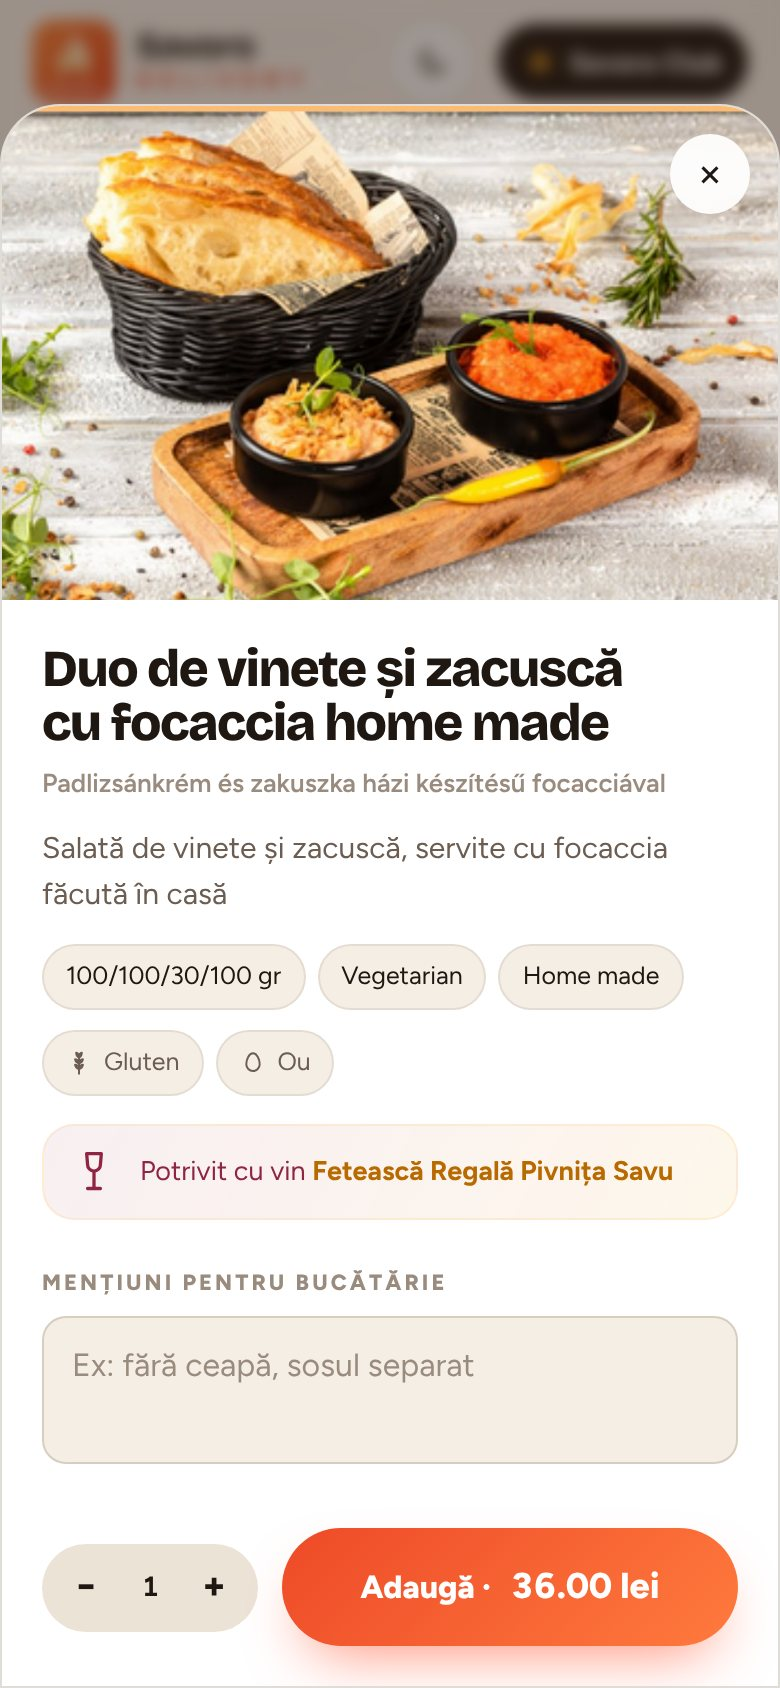
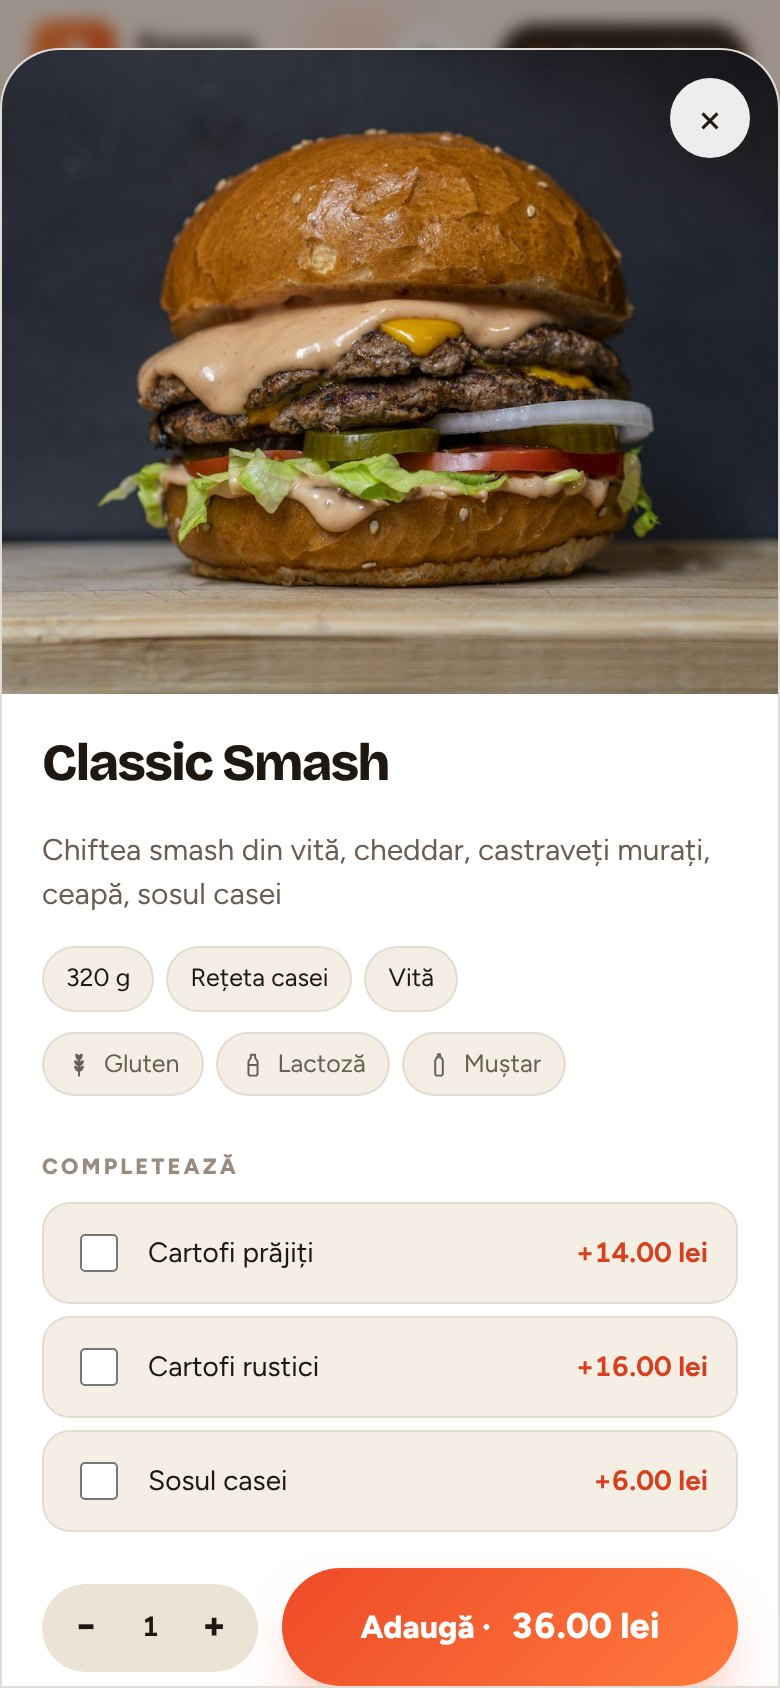
Showcase: fictional Savoro menu with Unsplash photos (no real restaurant menu or photos), menu picks moved to menuConfig, domain bluradvertising.ro, regenerated screenshots
Claude-Session: https://claude.ai/code/session_01FWxn1RFNGZn4S8d5iYEuTb

diff --git a/app/src/pages/Menu.tsx b/app/src/pages/Menu.tsx
@@ -8,43 +8,18 @@ import { flyToCart, haptic } from "../lib/fx";
 import Icon from "../components/Icon";
 import BottomNav from "../components/BottomNav";
 import SiteFooter from "../components/SiteFooter";
+import { BURGER_CATS, CAT_IMG, EXTRA_IDS, MAIN_CATS, MOODS, SEARCH_PH, UPSELL, moodFor } from "../lib/menuConfig";
 
 type Lang = "ro" | "hu";
 type ItemSheet = { id: string; qty: number; vi: number; extras: string[]; note: string };
 type CodeInfo = { code: string; percent: number; category_id: string | null; label: string };
 type Form = { name: string; phone: string; email: string; address: string };
 
-const EXTRA_IDS = {
-  burger: ["cartofi", "special-fries", "sosul-casei"],
-  main: ["mujdei", "sos-usturoi", "smantana", "ardei-iute"],
-  desert: ["smantana"],
-};
-const MAIN_CATS = ["nou", "specialitati", "porc", "ardeal", "pui", "peste", "post", "dejun", "platouri", "vegetariene"];
-const UPSELL = ["sosul-casei", "mujdei", "muraturi", "papanas", "lapte-pasare", "ardei-iute", "cartofi"];
-const CAT_IMG: Record<string, string> = {
-  antreuri: "platou-branzeturi.jpg", dejun: "english.jpg", nou: "antricot.jpg", platouri: "platou-lyra.jpg",
-  specialitati: "costite.jpg", smash: "double-smash.jpg", burger: "eleven-burger.jpg", supe: "ciorba-vita.jpg",
-  porc: "ciolan-lyra.jpg", ardeal: "papricas.jpg", pui: "cordon-bleu.jpg", peste: "pastrav.jpg", paste: "carbonara.jpg",
-  salate: "halloumi.jpg", vegetariene: "papricas-ciuperci.jpg", post: "ciorba-pita.jpg", kids: "kids-dino.jpg",
-  garnituri: "cartofi-coaja.jpg", muraturi: "muraturi.jpg", sosuri: "special-fries.jpg", desert: "papanas.jpg",
-};
-// "Ce poftă ai?" — quick moods, each a hand-picked set of dishes
-const MOODS = [
-  { id: "casa", ro: "De-al casei", hu: "Házias", ids: ["ciolan-lyra", "costite", "sarmale", "carne-garnita", "fasole-batuta", "papricas"] },
-  { id: "burger", ro: "Burger night", hu: "Burger este", ids: ["double-smash", "spicy-smash", "eleven-burger", "burger-ozn", "special-fries", "smash"] },
-  { id: "usor", ro: "Ușor & verde", hu: "Könnyű", ids: ["halloumi", "salata-pui", "pastrav", "oua-posate", "supa-crema", "papricas-ciuperci"] },
-  { id: "premium", ro: "Seară specială", hu: "Különleges este", ids: ["antricot", "muschi", "tocanita", "platou-branzeturi", "camembert"] },
-  { id: "dulce", ro: "Ceva dulce", hu: "Valami édes", ids: ["papanas", "somloi", "lapte-pasare", "panna-cotta", "clatite", "tarta-mere"] },
-  { id: "dimineata", ro: "Mic dejun", hu: "Reggeli", ids: ["english", "bruschete", "omleta", "paine-ou", "spanac"] },
-  { id: "grup", ro: "Pentru gașcă", hu: "Társaságnak", ids: ["platou-lyra", "platou-pui", "mix-grill", "gustare", "platou-branzeturi"] },
-];
-const moodFor = (h: number) => (h < 11 ? "dimineata" : h < 16 ? "casa" : h < 22 ? "burger" : "dulce");
-
 const T = {
-  ro: { deliv: "Livrare", pick: "Ridicare", search: "Caută ciolan, burger, papanaș…", add: "Adaugă", from: "de la", out: "Epuizat azi",
+  ro: { deliv: "Livrare", pick: "Ridicare", search: SEARCH_PH.ro, add: "Adaugă", from: "de la", out: "Epuizat azi",
         cart: "Coșul tău", hot: "Tigaie fierbinte", portion: "Alege porția", extras: "Completează", note: "Mențiuni pentru bucătărie",
         notePh: "Ex: fără ceapă, sosul separat", wine: "Potrivit cu vin", mood: "Ce poftă ai?", all: "produse", menu: "Tot meniul" },
-  hu: { deliv: "Kiszállítás", pick: "Elvitel", search: "Keresés…", add: "Kosárba", from: "ártól", out: "Ma elfogyott",
+  hu: { deliv: "Kiszállítás", pick: "Elvitel", search: SEARCH_PH.hu, add: "Kosárba", from: "ártól", out: "Ma elfogyott",
         cart: "Kosarad", hot: "Forró serpenyő", portion: "Válassz adagot", extras: "Egészítsd ki", note: "Megjegyzés a konyhának",
         notePh: "Pl. hagyma nélkül, szósz külön", wine: "Ajánlott bor", mood: "Mire van kedved?", all: "termék", menu: "Teljes étlap" },
 };
@@ -232,7 +207,7 @@ export default function Menu({ source }: { source?: string }) {
     haptic(6);
   }
   const extrasFor = (it: Item) =>
-    (["smash", "burger"].includes(it.category_id) && it.id !== "special-fries" ? EXTRA_IDS.burger
+    (BURGER_CATS.includes(it.category_id) && !EXTRA_IDS.burger.includes(it.id) ? EXTRA_IDS.burger
       : MAIN_CATS.includes(it.category_id) ? EXTRA_IDS.main
       : it.category_id === "desert" ? EXTRA_IDS.desert : []).map(id => byId[id]).filter(Boolean);
 

diff --git a/app/vite.config.ts b/app/vite.config.ts
@@ -4,30 +4,28 @@ import { readFileSync, readdirSync } from "node:fs";
 import { fileURLToPath } from "node:url";
 
 // `vite build --mode demo` makes the static showcase: no backend (an in-browser stand-in for Supabase),
-// a fictional brand instead of the restaurant's, relative paths so it runs from any folder of any host.
+// a fictional restaurant (own menu, stock photos) instead of the real one, relative paths so it runs from any folder of any host.
 const here = (p: string) => fileURLToPath(new URL(p, import.meta.url));
-const SWAP: Record<string, string> = { "/src/lib/supabase.ts": "./src/demo/mockSupabase.ts", "/src/lib/company.ts": "./src/demo/company.ts" };
+const SWAP: Record<string, string> = {
+  "/src/lib/supabase.ts": "./src/demo/mockSupabase.ts",
+  "/src/lib/company.ts": "./src/demo/company.ts",
+  "/src/lib/menuConfig.ts": "./src/demo/menuConfig.ts",
+};
 const BRAND: [string | RegExp, string][] = [
   ['"/img/', '"./img/'],
   ["logo-lyra.jpg", "logo-demo.svg"],
-  [/"(double-smash|spicy-smash|smash)\.jpg"/g, '"demo-$1.jpg"'],   // the originals carry the restaurant's logo
-  ['"pitbox.jpg"', '"costite.jpg"'],
-  [/"([a-z-]+)-lyra\.jpg"/g, '"$1-casa.jpg"'],
-  ["BBQ Pit Box Smoker", "Din afumătoarea casei"],
-  ["Pit Box Smoker", "afumătoare"],
   ["by Lyra Pensiune Restaurant · Tradiții din 1999", "by Savoro Kitchen · demo"],
   ["lyrasdelivery.ro", "savoro.ro"],
   ["lyrago.netlify.app", "savoro.ro"],
   [/Lyra's/g, "Savoro"],
   [/Lyra/g, "Savoro"],
   [/LYRA/g, "SAVORO"],
-  [/(Acățari|Gornești|Corunca|Târgu Mureș)/g, "Cluj-Napoca"],
 ];
 const demo = (): Plugin => ({
   name: "lyra-demo",
   enforce: "pre",
   async resolveId(source, importer, opts) {
-    if (!importer?.includes("/src/") || !/\/(supabase|company)$/.test(source)) return null;
+    if (!importer?.includes("/src/") || !/\/(supabase|company|menuConfig)$/.test(source)) return null;
     const r = await this.resolve(source, importer, { ...opts, skipSelf: true });
     const hit = r && Object.keys(SWAP).find(k => r.id.endsWith(k));
     return hit ? here(SWAP[hit]) : null;
@@ -37,14 +35,15 @@ const demo = (): Plugin => ({
     for (const [a, b] of BRAND) code = typeof a === "string" ? code.replaceAll(a, b) : code.replace(a, b);
     return code;
   },
+  transformIndexHtml(html) {
+    return html.replace("/img/logo-lyra.jpg", "./img/logo-demo.svg").replace(/Lyra's Delivery/g, "Savoro Delivery").replace(/Lyra/g, "Savoro").replace("specialități la tigaie fierbinte, burgeri pe cărbune", "burgeri, pizza, sushi și brunch");
+  },
   generateBundle() {
     for (const f of readdirSync(here("./src/demo/img")))
       this.emitFile({ type: "asset", fileName: "img/" + f, source: readFileSync(here("./src/demo/img/" + f)) });
-    for (const f of readdirSync(here("./public/img")).filter(f => f.endsWith("-lyra.jpg")))
-      this.emitFile({ type: "asset", fileName: "img/" + f.replace("-lyra.jpg", "-casa.jpg"), source: readFileSync(here("./public/img/" + f)) });
   },
 });
 
 export default defineConfig(({ mode }) => mode === "demo"
-  ? { plugins: [demo(), react()], base: "./", build: { outDir: "dist-demo" } }
+  ? { plugins: [demo(), react()], base: "./", publicDir: false, build: { outDir: "dist-demo" } }
   : { plugins: [react()] });

diff --git a/app/src/lib/menuConfig.ts b/app/src/lib/menuConfig.ts
@@ -1,0 +1,30 @@
+// Menu-specific picks for the client page (extras, upsell, story images, "Ce poftă ai?" moods).
+// The showcase build swaps this file for src/demo/menuConfig.ts, which matches the demo menu.
+export const EXTRA_IDS = {
+  burger: ["cartofi", "special-fries", "sosul-casei"],
+  main: ["mujdei", "sos-usturoi", "smantana", "ardei-iute"],
+  desert: ["smantana"],
+};
+export const MAIN_CATS = ["nou", "specialitati", "porc", "ardeal", "pui", "peste", "post", "dejun", "platouri", "vegetariene"];
+export const UPSELL = ["sosul-casei", "mujdei", "muraturi", "papanas", "lapte-pasare", "ardei-iute", "cartofi"];
+export const CAT_IMG: Record<string, string> = {
+  antreuri: "platou-branzeturi.jpg", dejun: "english.jpg", nou: "antricot.jpg", platouri: "platou-lyra.jpg",
+  specialitati: "costite.jpg", smash: "double-smash.jpg", burger: "eleven-burger.jpg", supe: "ciorba-vita.jpg",
+  porc: "ciolan-lyra.jpg", ardeal: "papricas.jpg", pui: "cordon-bleu.jpg", peste: "pastrav.jpg", paste: "carbonara.jpg",
+  salate: "halloumi.jpg", vegetariene: "papricas-ciuperci.jpg", post: "ciorba-pita.jpg", kids: "kids-dino.jpg",
+  garnituri: "cartofi-coaja.jpg", muraturi: "muraturi.jpg", sosuri: "special-fries.jpg", desert: "papanas.jpg",
+};
+// "Ce poftă ai?" — quick moods, each a hand-picked set of dishes
+export const MOODS = [
+  { id: "casa", ro: "De-al casei", hu: "Házias", ids: ["ciolan-lyra", "costite", "sarmale", "carne-garnita", "fasole-batuta", "papricas"] },
+  { id: "burger", ro: "Burger night", hu: "Burger este", ids: ["double-smash", "spicy-smash", "eleven-burger", "burger-ozn", "special-fries", "smash"] },
+  { id: "usor", ro: "Ușor & verde", hu: "Könnyű", ids: ["halloumi", "salata-pui", "pastrav", "oua-posate", "supa-crema", "papricas-ciuperci"] },
+  { id: "premium", ro: "Seară specială", hu: "Különleges este", ids: ["antricot", "muschi", "tocanita", "platou-branzeturi", "camembert"] },
+  { id: "dulce", ro: "Ceva dulce", hu: "Valami édes", ids: ["papanas", "somloi", "lapte-pasare", "panna-cotta", "clatite", "tarta-mere"] },
+  { id: "dimineata", ro: "Mic dejun", hu: "Reggeli", ids: ["english", "bruschete", "omleta", "paine-ou", "spanac"] },
+  { id: "grup", ro: "Pentru gașcă", hu: "Társaságnak", ids: ["platou-lyra", "platou-pui", "mix-grill", "gustare", "platou-branzeturi"] },
+];
+export const moodFor = (h: number) => (h < 11 ? "dimineata" : h < 16 ? "casa" : h < 22 ? "burger" : "dulce");
+
+export const BURGER_CATS = ["smash", "burger"];
+export const SEARCH_PH = { ro: "Caută ciolan, burger, papanaș…", hu: "Keresés…" };

diff --git a/showcase/index.html b/showcase/index.html
@@ -180,7 +180,7 @@ footer .wrap{display:flex;justify-content:space-between;gap:16px;flex-wrap:wrap}
   <div class="wrap">
     <a class="logo" href="#"><img src="app/img/logo-demo.svg" alt="">Savoro <span>Delivery</span></a>
     <nav><a href="#demo">Demo</a><a href="#client">Pentru clienți</a><a href="#restaurant">Pentru restaurant</a><a href="#de-ce">De ce</a></nav>
-    <a class="btn btn-dark" href="https://vluradvertising.ro/#contact">Vreau și eu</a>
+    <a class="btn btn-dark" href="https://bluradvertising.ro/#contact">Vreau și eu</a>
   </div>
 </header>
 
@@ -197,7 +197,7 @@ footer .wrap{display:flex;justify-content:space-between;gap:16px;flex-wrap:wrap}
       </div>
       <div class="proof">
         <div><b>0%</b><small>comision pe comandă</small></div>
-        <div><b>115</b><small>preparate, editabile din admin</small></div>
+        <div><b>2</b><small>atingeri până la comandă</small></div>
         <div><b>4</b><small>aplicații într-una</small></div>
       </div>
     </div>
@@ -292,13 +292,13 @@ footer .wrap{display:flex;justify-content:space-between;gap:16px;flex-wrap:wrap}
     <div class="box reveal">
       <h2>Vrei o aplicație ca asta pentru restaurantul tău?</h2>
       <p>O construim cu meniul, pozele, numele și logo-ul tău, pe domeniul tău. Tu primești comenzile, noi ne ocupăm de restul.</p>
-      <div class="ctas"><a class="btn btn-main" href="https://vluradvertising.ro/#contact">Cere o ofertă</a><a class="btn btn-ghost" href="app/" target="_blank" rel="noopener">Încearcă demo-ul ↗</a></div>
+      <div class="ctas"><a class="btn btn-main" href="https://bluradvertising.ro/#contact">Cere o ofertă</a><a class="btn btn-ghost" href="app/" target="_blank" rel="noopener">Încearcă demo-ul ↗</a></div>
     </div>
   </div>
 </section>
 </main>
 
-<footer><div class="wrap"><span>Aplicație de comenzi online realizată de <a href="https://vluradvertising.ro">VLUR Advertising</a></span><span>Savoro este un restaurant fictiv, creat pentru demo. Comenzile din demo nu sunt reale.</span></div></footer>
+<footer><div class="wrap"><span>Aplicație de comenzi online realizată de <a href="https://bluradvertising.ro">Blur Advertising</a></span><span>Savoro este un restaurant fictiv, creat pentru demo. Fotografii: Unsplash. Comenzile din demo nu sunt reale.</span></div></footer>
 
 <script>
   const io = new IntersectionObserver(es => es.forEach(e => { if (e.isIntersecting) { e.target.classList.add("in"); io.unobserve(e.target); } }), { threshold: .12 });

diff --git a/video/promo.html b/video/promo.html
@@ -130,7 +130,7 @@ body{font-family:Figtree,sans-serif;color:var(--ink);position:relative}
   <svg class="pin" id="pinA" style="left:120px;top:1700px" viewBox="0 0 24 24"><path d="M12 22s7-6.5 7-12a7 7 0 1 0-14 0c0 5.5 7 12 7 12z" fill="#f04e23"/><circle cx="12" cy="10" r="3" fill="#fff"/></svg>
   <svg class="pin" id="pinB" style="left:960px;top:420px" viewBox="0 0 24 24"><path d="M12 22s7-6.5 7-12a7 7 0 1 0-14 0c0 5.5 7 12 7 12z" fill="#17b67c"/><circle cx="12" cy="10" r="3" fill="#fff"/></svg>
   <div class="phone" id="phone2" style="left:240px;top:600px"><div class="screen"><img src="assets/staff-courier.jpg" style="opacity:1" alt=""><div class="tap" id="tap3"></div></div></div>
-  <div class="card" id="n3" style="right:50px;top:1560px"><i style="background:#e7f7f0">🏠</i><div><b>Livrată!</b><small>De încasat: 85 lei · card</small></div></div>
+  <div class="card" id="n3" style="right:50px;top:1560px"><i style="background:#e7f7f0">🏠</i><div><b>Livrată!</b><small>De încasat: 102 lei · card</small></div></div>
 </div>
 
 <!-- 7 · club -->
@@ -148,7 +148,7 @@ body{font-family:Figtree,sans-serif;color:var(--ink);position:relative}
   <div class="zero" id="zero"><span>0%</span><small>comision.</small></div>
   <div class="own" id="own">Clienții sunt ai tăi.</div>
   <div class="cta" id="cta">Încearcă demo-ul live</div>
-  <div class="url" id="url">vluradvertising.ro</div>
+  <div class="url" id="url">bluradvertising.ro</div>
   <img class="mini" id="m1" src="assets/client-popup.jpg" style="left:80px" alt="">
   <img class="mini" id="m2" src="assets/client-track.jpg" style="left:415px" alt="">
   <img class="mini" id="m3" src="assets/client-club.jpg" style="left:750px" alt="">
@@ -226,7 +226,7 @@ $("sc-track").style.opacity = 0;
 A("sc-track", [{ opacity: 0 }, { opacity: 1 }], 11.6, .25);
 const tap = (id, x, y, at) => { $(id).style.left = x + "px"; $(id).style.top = y + "px";
   A(id, [{ opacity: 0, transform: "scale(.4)" }, { opacity: 1, transform: "scale(1)", offset: .4 }, { opacity: 0, transform: "scale(1.5)" }], at, .55); };
-tap("tap1", 367, 1146, 10.2);   // "Adaugă în coș"
+tap("tap1", 310, 1175, 10.2);   // "Adaugă în coș"
 tap("tap2", 282, 1153, 11.25);  // "Trimite comanda"
 cap("Clienții comandă din *două* atingeri.|Poze mari, coș rapid, plată la livrare.", 7.1, 11.5);
 cap("Și urmăresc comanda *live*, până la ușă.", 11.6, 15.1);

diff --git a/app/src/demo/mockSupabase.ts b/app/src/demo/mockSupabase.ts
@@ -36,17 +36,17 @@ function seedOrders(): Row[] {
   };
   return [
     mk(1036, { name: "Andreea M.", phone: "0745 112 908", address: "Str. Trandafirilor 12", status: "new", created_at: iso(now - 0.6 * m), source: "ig",
-      items: [line("double-smash", 2), line("cartofi", 2)], note: "Fără ceapă la un burger, vă rog", allergies: ["lactoza"] }),
+      items: [line("double-cheese", 2), line("cartofi", 2)], note: "Fără ceapă la un burger, vă rog", allergies: ["lactoza"] }),
     mk(1035, { name: "Bogdan P.", phone: "0722 455 019", address: "Str. Principală 88", status: "prep", eta_min: 35, accepted_at: iso(now - 9 * m), created_at: iso(now - 10 * m),
-      items: [line("spicy-smash"), line("smash"), line("cartofi")] }),
+      items: [line("diavola"), line("classic-smash"), line("cartofi")] }),
     mk(1034, { name: "Ioana R.", phone: "0758 302 771", mode: "ridicare", address: "Ridicare din restaurant", status: "prep", eta_min: 20, accepted_at: iso(now - 14 * m), created_at: iso(now - 15 * m), payment: "cash",
-      items: [line("papanas", 2)] }),
+      items: [line("poke-somon"), line("tiramisu")] }),
     mk(1033, { name: "Csaba K.", phone: "0740 980 114", address: "Str. Morii 4", status: "road", eta_min: 40, accepted_at: iso(now - 31 * m), road_at: iso(now - 6 * m), created_at: iso(now - 32 * m),
-      courier_id: STAFF_USER, courier_name: "Vlad", items: [line("double-smash"), line("duo-vinete")] }),
+      courier_id: STAFF_USER, courier_name: "Vlad", items: [line("sushi-boat")] }),
     mk(1032, { name: "Maria S.", phone: "0733 640 210", address: "Str. Libertății 21", status: "done", eta_min: 40, accepted_at: iso(now - 80 * m), road_at: iso(now - 55 * m), done_at: iso(now - 41 * m), created_at: iso(now - 81 * m),
-      courier_id: STAFF_USER, courier_name: "Vlad", rating: 5, items: [line("smash", 3), line("cartofi", 3)] }),
+      courier_id: STAFF_USER, courier_name: "Vlad", rating: 5, items: [line("margherita", 2), line("aripioare")] }),
     mk(1031, { name: "Radu T.", phone: "0766 010 332", mode: "ridicare", address: "Ridicare din restaurant", status: "done", eta_min: 25, accepted_at: iso(now - 130 * m), done_at: iso(now - 100 * m), created_at: iso(now - 131 * m),
-      rating: 4, items: [line("spicy-smash", 2)] }),
+      rating: 4, items: [line("bbq-bacon", 2)] }),
   ];
 }
 

diff --git a/app/src/demo/menuConfig.ts b/app/src/demo/menuConfig.ts
@@ -1,0 +1,21 @@
+// Showcase build: menu picks matching the fictional Savoro menu (see src/demo/seed).
+export const EXTRA_IDS = {
+  burger: ["cartofi", "cartofi-rustici", "sosul-casei"],
+  main: ["cartofi", "sos-usturoi", "sosul-casei"],
+  desert: [] as string[],
+};
+export const MAIN_CATS = ["grill"];
+export const BURGER_CATS = ["burgers"];
+export const UPSELL = ["cartofi", "sosul-casei", "tiramisu", "fresh-portocale", "cartofi-rustici", "gogosi"];
+export const CAT_IMG: Record<string, string> = { extra: "m-cartofi.jpg" };
+export const MOODS = [
+  { id: "burger", ro: "Burger night", hu: "Burger este", ids: ["double-cheese", "classic-smash", "bbq-bacon", "avocado-burger", "sliders"] },
+  { id: "pizza", ro: "Pizza & paste", hu: "Pizza", ids: ["margherita", "diavola", "bianca", "quattro", "spaghete-creveti", "penne-arrabbiata"] },
+  { id: "usor", ro: "Ușor & verde", hu: "Könnyű", ids: ["poke-somon", "buddha", "green-salad", "farfalle-pesto", "egg-bowl"] },
+  { id: "premium", ro: "Seară specială", hu: "Különleges este", ids: ["ribeye", "steak-frites", "sushi-boat", "nigiri-set", "spaghete-creveti"] },
+  { id: "dulce", ro: "Ceva dulce", hu: "Valami édes", ids: ["tiramisu", "tort-zmeura", "gogosi", "sundae", "pancakes"] },
+  { id: "dimineata", ro: "Brunch", hu: "Brunch", ids: ["avocado-toast", "french-toast", "pancakes", "egg-bowl", "club-sandwich"] },
+  { id: "grup", ro: "Pentru gașcă", hu: "Társaságnak", ids: ["frigarui", "sushi-boat", "ribs", "aripioare", "sliders"] },
+];
+export const moodFor = (h: number) => (h < 11 ? "dimineata" : h < 16 ? "usor" : h < 22 ? "burger" : "dulce");
+export const SEARCH_PH = { ro: "Caută burger, pizza, sushi…", hu: "Keresés…" };
